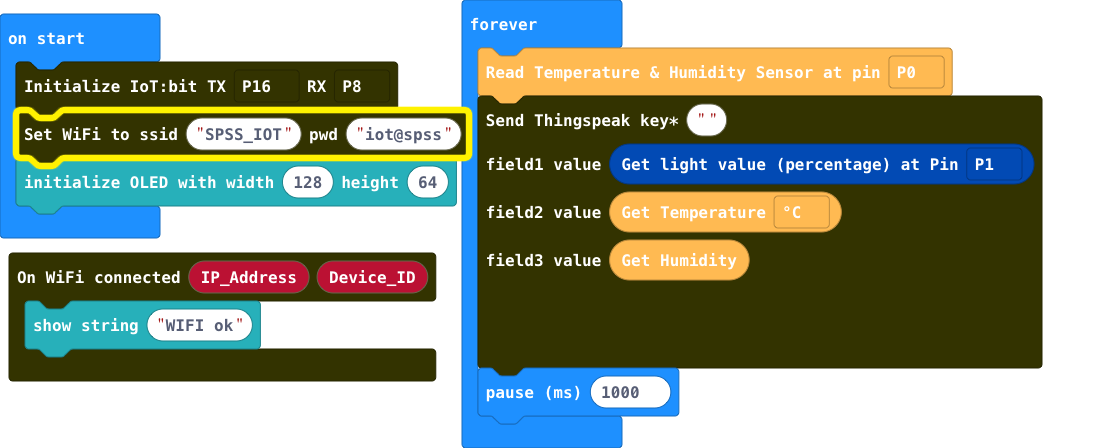
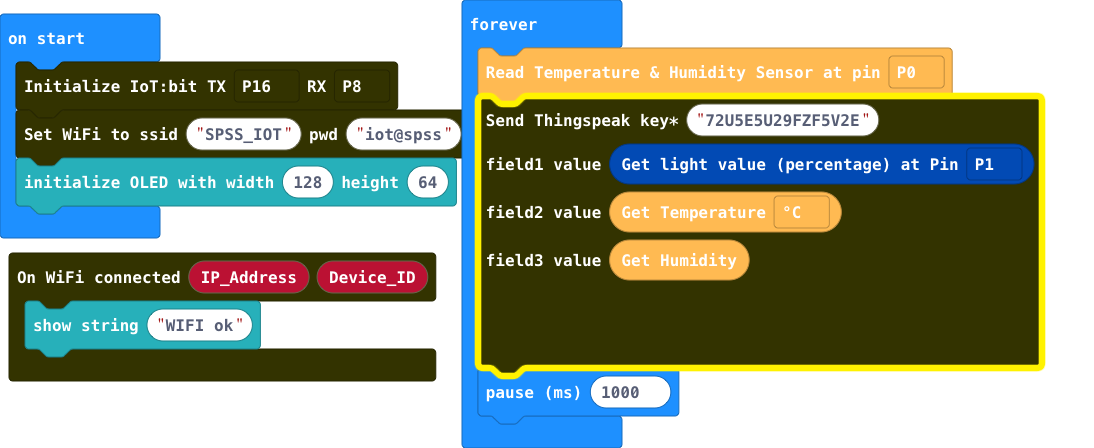
Update main.blocks, main.ts

Changed region(s): [[0.0, 0.1875, 0.9634, 0.8438]]

diff --git a/main.ts b/main.ts
@@ -7,7 +7,7 @@ OLED.init(128, 64)
 basic.forever(function () {
     House.readDHT11(DigitalPin.P0)
     WiFiIoT.sendThingspeak(
-    "",
+    "72U5E5U29FZF5V2E",
     SmartCity.read_light_sensor(AnalogPin.P1),
     House.readTemperatureData(House.Temp_degree.degree_Celsius),
     House.readHumidityData()
